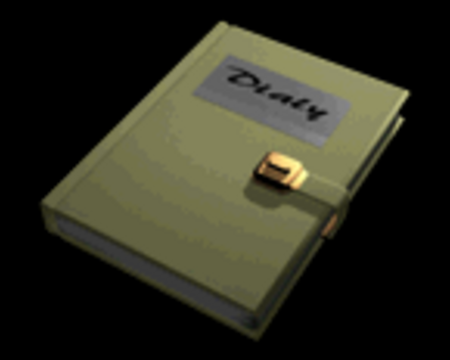
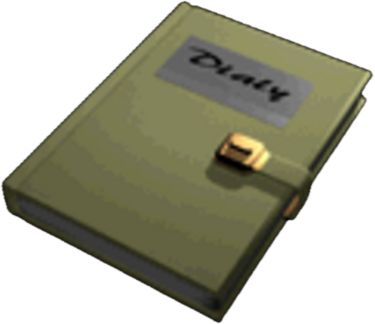
EX files transparentes: mostrarlos bien en tiles, preview y visor; EQUIP altura fija
- 16 EX files ahora con fondo transparente (editados a mano).

- Tiles del diario: sin la caja oscura, se ve el PNG completo (contain).

- Preview al seleccionar: conserva su caja/fondo, imagen completa y con margen (ya no se recorta/estira en desktop).

- Visor (ReFileViewer): margen de la carta (max-width 82%) para que no llene en mobile.

- PauseMenu: EQUIP mantiene altura fija (imagen posicionada absoluta, no crece la fila).

diff --git a/src/components/PauseMenu.svelte b/src/components/PauseMenu.svelte
@@ -134,7 +134,7 @@
       </div>
     {:else if sel?.title}
       {#if sel.image}
-        <div class="thumb"><img src={sel.image} alt="" loading="lazy" /></div>
+        <div class="thumb thumb-ex"><img src={sel.image} alt="" loading="lazy" /></div>
       {:else}
         <div class="thumb empty"><span>{sel.type === 'diario' ? '✎' : '▤'}</span></div>
       {/if}
@@ -183,7 +183,7 @@
             onmouseenter={() => (sel = e)}
             onfocus={() => (sel = e)}
           >
-            <span class="glyph">
+            <span class="glyph" class:img={e.image}>
               {#if e.image}
                 <img src={e.image} alt="" loading="lazy" />
               {:else}
@@ -407,13 +407,24 @@
   .value { color: var(--c, var(--green)); font-size: 15px; letter-spacing: 0.12em; text-shadow: 0 0 8px var(--c, var(--green)); }
 
   .equip .cell {
+    position: relative; /* contiene la imagen sin que su alto crezca la fila */
     flex: 1;
     display: grid;
     place-items: center;
     overflow: hidden;
-    min-height: 34px;
+    min-height: 0;
   }
-  .equip .cell img { max-width: 100%; max-height: 100%; object-fit: contain; image-rendering: pixelated; }
+  .equip .cell img {
+    position: absolute;
+    inset: 4px;
+    margin: auto;
+    max-width: calc(100% - 8px);
+    max-height: calc(100% - 8px);
+    width: auto;
+    height: auto;
+    object-fit: contain;
+    image-rendering: pixelated;
+  }
   .ph { color: var(--muted); font-size: 24px; }
 
   .item {
@@ -448,6 +459,8 @@
     overflow: hidden;
   }
   .thumb img { width: 100%; height: 100%; object-fit: cover; }
+  /* EX file en el preview: conserva el fondo/caja, imagen completa (no recortada) y con margen */
+  .thumb-ex img { width: auto; height: auto; max-width: 82%; max-height: 86%; object-fit: contain; image-rendering: pixelated; }
   /* item en details: imagen completa (scaleToFit), centrada, con margen e inclinada 30° */
   .thumb-item { overflow: hidden; appearance: none; -webkit-appearance: none; font: inherit; cursor: zoom-in; }
   .thumb-item img { width: auto; height: auto; max-width: 60%; max-height: 60%; object-fit: contain; transform: rotate(30deg); }
@@ -518,6 +531,9 @@
     border: 1px solid var(--lo);
   }
   .slot .glyph img { width: 100%; height: 100%; object-fit: cover; }
+  /* EX file transparente: sin cuadro, se ve el PNG completo */
+  .slot .glyph.img { background: transparent; border-color: transparent; overflow: visible; }
+  .slot .glyph.img img { object-fit: contain; image-rendering: pixelated; }
   .slot .stitle { overflow: hidden; text-overflow: ellipsis; white-space: nowrap; }
   .slot .smeta {
     color: var(--muted);

diff --git a/src/components/ReFileViewer.svelte b/src/components/ReFileViewer.svelte
@@ -229,7 +229,7 @@
     position: absolute;
     inset: 0;
     margin: auto;
-    max-width: 100%;
+    max-width: 82%;
     max-height: min(62vh, 600px);
     object-fit: contain;
     filter: drop-shadow(0 18px 40px rgba(0, 0, 0, 0.8));
